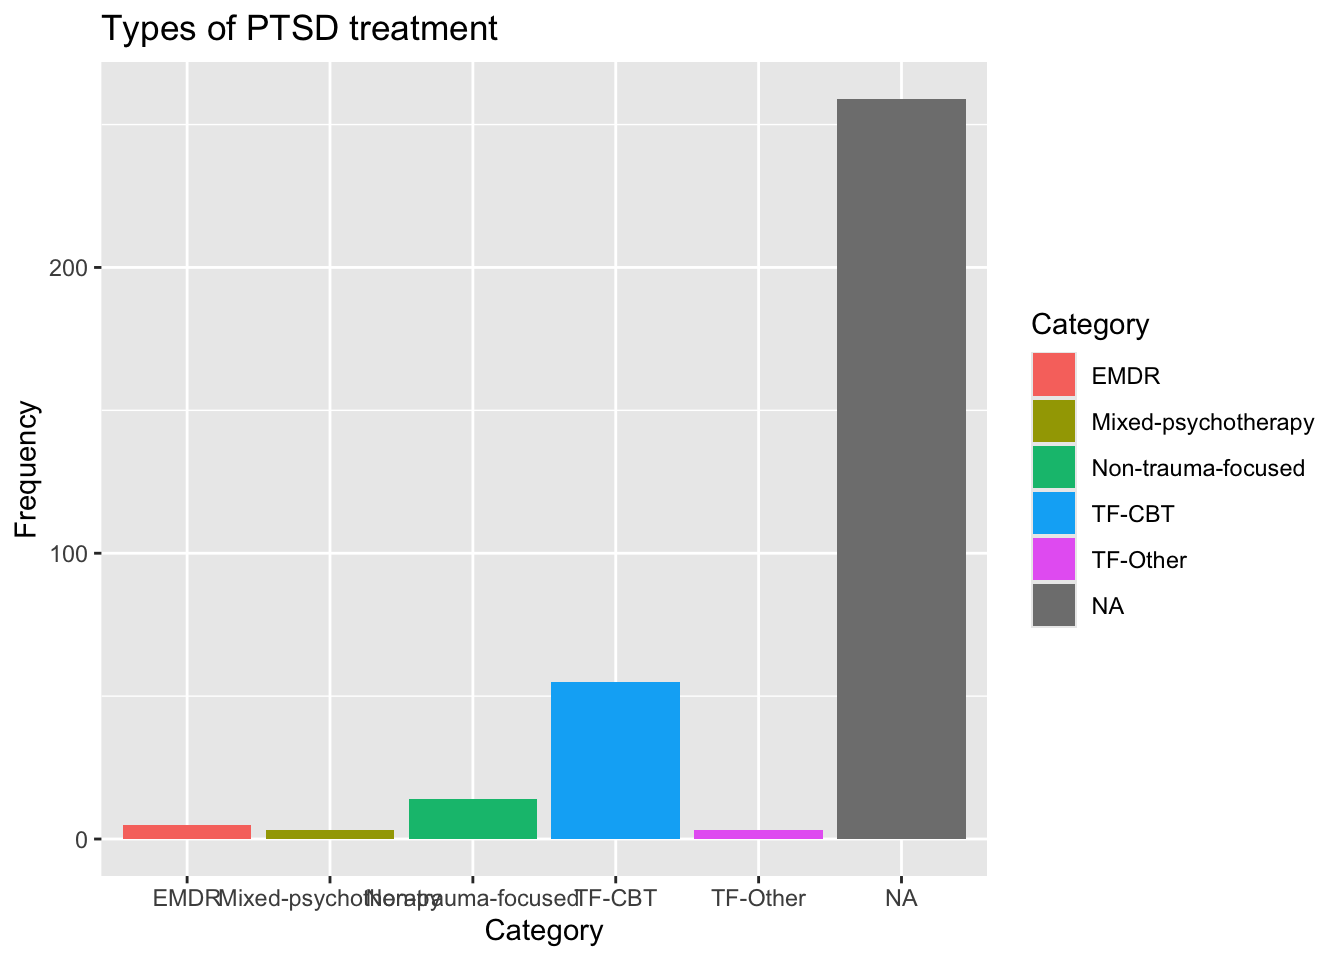
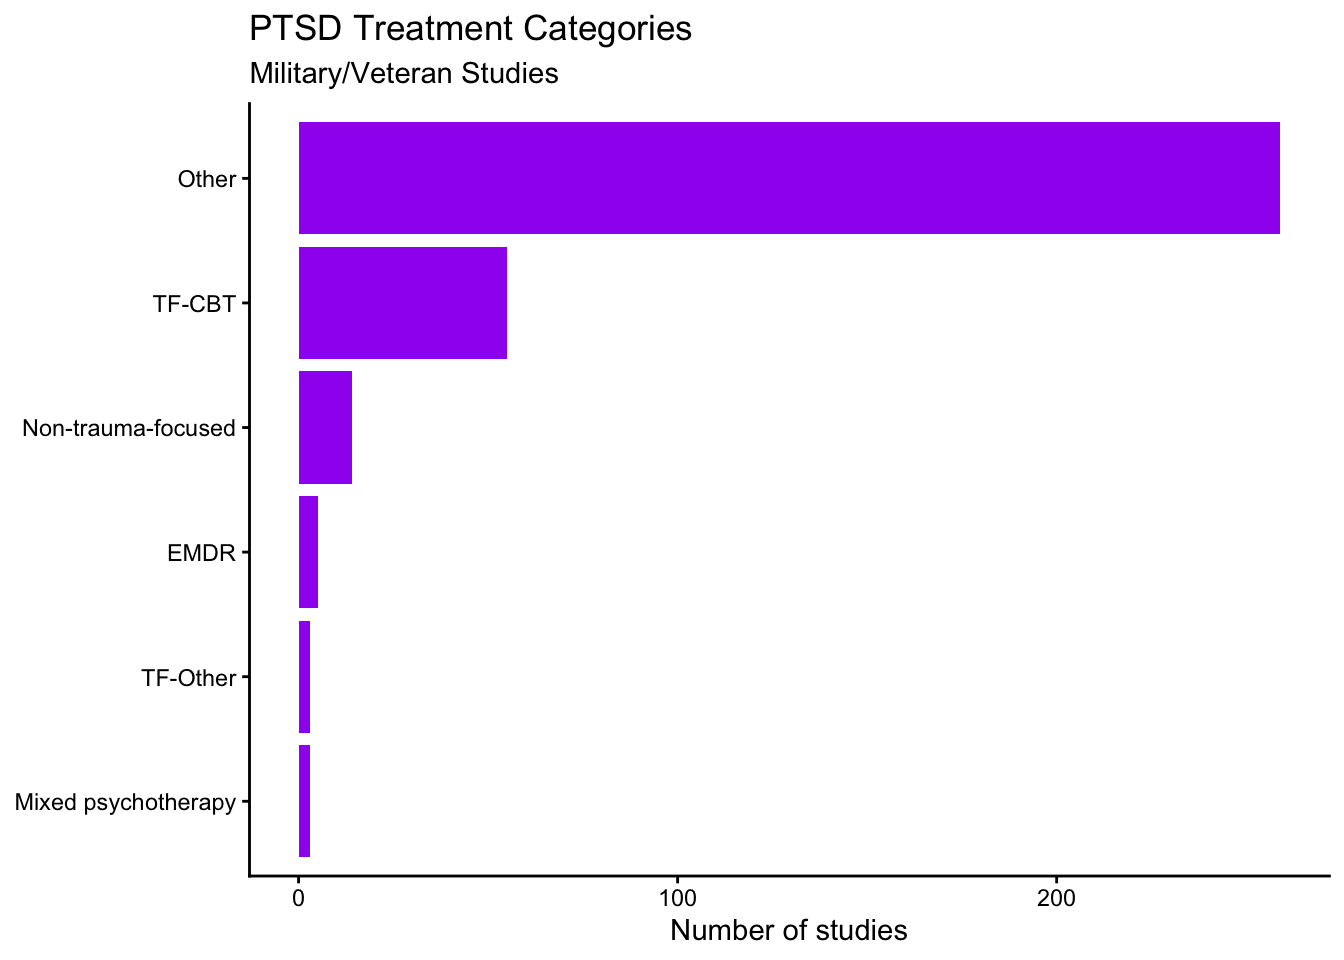
cleaned up

diff --git a/docs/p02.html b/docs/p02.html
@@ -13,7 +13,7 @@
 
 <title>Portfolio 2</title>
 
-<script src="site_libs/header-attrs-2.29/header-attrs.js"></script>
+<script src="site_libs/header-attrs-2.30/header-attrs.js"></script>
 <script src="site_libs/jquery-3.6.0/jquery-3.6.0.min.js"></script>
 <meta name="viewport" content="width=device-width, initial-scale=1" />
 <link href="site_libs/bootstrap-3.3.5/css/bootstrap.min.css" rel="stylesheet" />
@@ -295,86 +295,126 @@ $(document).ready(function () {
 </div>
 
 
-<pre class="r"><code>library(tidyverse)</code></pre>
-<pre><code>## ── Attaching core tidyverse packages ──────────────────────── tidyverse 2.0.0 ──
-## ✔ dplyr     1.1.4     ✔ readr     2.1.5
-## ✔ forcats   1.0.0     ✔ stringr   1.5.1
-## ✔ ggplot2   3.5.2     ✔ tibble    3.3.0
-## ✔ lubridate 1.9.4     ✔ tidyr     1.3.1
-## ✔ purrr     1.1.0     
-## ── Conflicts ────────────────────────────────────────── tidyverse_conflicts() ──
-## ✖ dplyr::filter() masks stats::filter()
-## ✖ dplyr::lag()    masks stats::lag()
-## ℹ Use the conflicted package (&lt;http://conflicted.r-lib.org/&gt;) to force all conflicts to become errors</code></pre>
-<p>I am reading in data from the <a
-href="https://ptsd-va.data.socrata.com/">PTSD Repository</a>, which was
-created by the National Center for PTSD to help people understand what
-is currently known about PTSD treatment. It includes 583 studies.</p>
-<pre class="r"><code>PTSD &lt;- read_csv(&quot;data/PTSD.csv&quot;)</code></pre>
-<pre><code>## Rows: 1282 Columns: 53
-## ── Column specification ────────────────────────────────────────────────────────
-## Delimiter: &quot;,&quot;
-## chr (47): Study ID, Author, Year (Study level), Study Class, Treatment Focus...
-## dbl  (5): Study Publication Year, Arm N Randomized, Psychotherapy Sessions C...
-## num  (1): Total N Randomized
-## 
-## ℹ Use `spec()` to retrieve the full column specification for this data.
-## ℹ Specify the column types or set `show_col_types = FALSE` to quiet this message.</code></pre>
-<p>I want to filter the dataset to only inciude participants who are
-active duty military or veterans. I also want the treatment focus at the
-study level to be on PTSD. Here I created a new dataframe with those
-filters.</p>
+<div id="goal" class="section level3">
+<h3>Goal</h3>
+<p>The goal of this portfolio piece is to pratice data cleaning,
+filtering, and visualization in R using a real-world clinical research
+dataset. I am using data from the <a
+href="https://ptsd-va.data.socrata.com/">PTSD Repository</a>, created by
+the National Center for PTSD to summarize what is currently known about
+PTSD treatment. The dataset includes 583 studies. For this project, I
+focus on studies involving active duty service members and veterans, and
+I explore how PTSD-focused psychotherapy treatments are distributed
+across broader treatment categories (e.g., TF-CBT, EMDR). This is a work
+in progress: I’m using it to iteratively improve my code, learn how to
+create clearer plots, and develop a repeatable workflow for categorizing
+messy treatment labels.</p>
+<p>First, I read in the dataset from the <a
+href="https://ptsd-va.data.socrata.com/">PTSD Repository</a>.</p>
+<pre class="r"><code>PTSD &lt;- read_csv(&quot;data/PTSD.csv&quot;, show_col_types = FALSE)</code></pre>
+<p>Next, I filter the dataset to include only studies where participants
+are active duty military or veterans, and where the treatment focus at
+the study level is PTSD. I store this filtered data in a new data
+frame.</p>
 <pre class="r"><code>PTSD_military &lt;- PTSD %&gt;% 
-  filter(`Military Status (Study level)` %in% c(&quot;Military&quot;, &quot;Veteran&quot;), `Treatment Focus (Study level)` == &quot;PTSD&quot;) #filter dataset for active duty military and veterans, as well as studys focusing only on PTSD</code></pre>
-<p>Now, I want to organize the types of psychotherapy into 5 groups so I
-can compare more easily. The 5 groups are: EMDR, TF-CBT, TF-Other,
-Non-trauma-focused, and Mixed psychotherapy. I took these groupings from
-a resource I found on the same site as the data. They give suggestions
-on how you might group together specific standardized treatments into
-larger categories. <a
-href="https://ptsd-va.data.socrata.com/Reference/Psychotherapy-Progressively-Specific-Grouping/5vmb-i9mg/about_data">Table</a>
-EMDR is Eye Movement Desensitization and Reprocessing. TF-CBT is
-trauma-focused cognitive behavioral therapy, which includes exposure
-therapy and cognitive therapy. TF-Other is tramua-focused, but not
-cognitive behavioral therapy: some examples include Reconsolidation of
-Traumatic Memories (RTM), and Trauma counseling. Non-trauma-focused
-includes CBT without trauma focus, and other non-trauma-focused
-treatments. Lastly, Mixed psychotherapy includes a combination of
-multiple treatments, for example CBT + EMDR. Not all of the standardized
-treatments are in the list i am pulling from, so I am going to name
-those as “other”. I mainly want to focus on comparing these 5 main
-groups.</p>
-<p>First, I will add a new variable, “category”. The levels will be the
-5 different groups plus other: EMDR, TF-CBT, TF-Other,
-Non-trauma-focused, Mixed psychotherapy, and other.</p>
+  filter(
+    `Military Status (Study level)` %in% c(&quot;Military&quot;, &quot;Veteran&quot;),
+    `Treatment Focus (Study level)` == &quot;PTSD&quot;
+  )</code></pre>
+<p>Now, I organize standardized psychotherapy treatments into five
+broader groups so that they are easier to compare. The five groups are
+EMDR, TF-CBT, TF-Other, Non-trauma-focused, and Mixed psychotherapy. I
+based these grouping on a resource provided on the same database as the
+dataset: <a
+href="https://ptsd-va.data.socrata.com/Reference/Psychotherapy-Progressively-Specific-Grouping/5vmb-i9mg/about_data">Psychotherapy
+Progressively Specific Grouping table</a>. - EMDR = Eye Movement
+Desensitization and Reprocessing - TF-CBT = trauma-focused cognitive
+behavioral therapy (including exposure and cognitive therapies) -
+TF-Other = trauma-focused therapies that are not TF-CBT (e.g., RTM,
+trauma counseling) - Non-trauma-focused = CBT without trauma focus and
+other non-trauma-focused approaches - Mixed psychotherapy = combinations
+of multiple psychotherapy approaches (e.g., CBT + EMDR)</p>
+<p>Not all standardized treatment names in the dataset appear in the
+grouping list I used. Any treatments that do not match one of the five
+groups are labeled as Other. To do this, I create a new variable called
+category with six levels: EMDR, TF-CBT, TF-Other, Non-trauma-focused,
+Mixed psychotherapy, and Other.</p>
 <pre class="r"><code>PTSD_military &lt;- PTSD_military %&gt;% 
   mutate(
     category = case_when(
       `Standardized Treatment Name` == &quot;Eye Movement Desensitization and Reprocessing (EMDR)&quot; ~ &quot;EMDR&quot;,
-      `Standardized Treatment Name` %in% c(&quot;Prolonged Exposure (PE)&quot;, &quot;Narrative Exposure Therapy (NET)&quot;, &quot;Exposure therapy&quot;, &quot;Imaginal exposure&quot;, &quot;Imaginal exposure (experimental paradigm) + placebo&quot;, &quot;Imaginal exposure + imagery rescripting&quot;, &quot;Implosive Therapy&quot;, &quot;Virtual reality exposure therapy (VRET)&quot;, &quot;Written Exposure Therapy (WET)&quot;, &quot;Written narrative exposure&quot;, &quot;Imagery Rehearsal Training (IRT)&quot;, &quot;Cognitive Behavioral Conjoint Therapy (CBCT)&quot;, &quot;Impact of Killing (IOK)&quot;, &quot;Trauma-focused cognitive behavioral therapy (TF-CBT)&quot;, &quot;Cognitive Processing Therapy (CPT)&quot;, &quot;Cognitive Therapy for PTSD (CT-PTSD)&quot;) ~ &quot;TF-CBT&quot;,
-      `Standardized Treatment Name` %in% c(&quot;Brief Eclectic Psychotherapy (BEP)&quot;, &quot;Modified Lifespan Integration&quot;, &quot;Multimodular motion-assisted memory desensitization and
-reconsolidation (3MDR)&quot;, &quot;Observed and Experiential Integration - Switching component&quot;, &quot;Reconsolidation of Traumatic Memories (RTM)&quot;, &quot;Trauma counseling&quot;, &quot;Accelerated Resolution Therapy (ART)&quot;) ~ &quot;TF-Other&quot;,
-      `Standardized Treatment Name` %in% c(&quot;Behavioral activation (BA)&quot;, &quot;Cognitive behavioral therapy (CBT) without a trauma focus&quot;, &quot;Cognitive Behavioral Therapy for Insomnia (CBT-I)&quot;, &quot;Cognitive restructuring and imagery modification&quot;, &quot;Metacognitive Therapy&quot;, &quot;Stress Inoculation Training (SIT)&quot;, &quot;Affect management therapy&quot;, &quot;Coping skills treatment&quot;, &quot;Interpersonal Psychotherapy (IPT)&quot;, &quot;Memory specificity training&quot;, &quot;Non-trauma-focused counseling&quot;, &quot;Present Centered Therapy (PCT)&quot;, &quot;Psychodynamic psychotherapy&quot;, &quot;PTSD psychotherapy&quot;, &quot;Resilience-oriented treatment&quot;, &quot;Skills Training in Affect and Interpersonal Regulation (STAIR)&quot;, &quot;Supportive counseling&quot;, &quot;Dialectical Behavior Therapy&quot;) ~ &quot;Non-trauma-focused&quot;, 
-      `Standardized Treatment Name` %in% c(&quot;Cognitive behavioral therapy (CBT) + Eye Desensitization and Reprocessing (EMDR)&quot;, &quot;Cognitive Behavioral Therapy for Insomnia (CBT-I) + Imagery Rehearsal Training (IRT)&quot;, &quot;Dialectical Behavior Therapy (DBT) + trauma-focused cognitive behavioral therapy (TF-CBT)&quot;, &quot;Eye Movement Desensitization and Reprocessing (EMDR) + cognitive behavioral therapy (CBT) without a trauma focus&quot;, &quot;Eye Movement Desensitization and Reprocessing (EMDR) + progressive muscle relaxation (PMR) + group psychoeducation&quot;, &quot;Narrative Exposure Therapy (NET) + Interpersonal Psychotherapy (IPT)&quot;, &quot;Prolonged Exposure (PE) + Stress Inoculation Training (SIT)&quot;, &quot;Skills Training in Affect and Interpersonal Regulation (STAIR) plus modified Prolonged Exposure (PE)&quot;) ~ &quot;Mixed-psychotherapy&quot;
-      )
-    )</code></pre>
+      
+      `Standardized Treatment Name` %in% c(
+        &quot;Prolonged Exposure (PE)&quot;, &quot;Narrative Exposure Therapy (NET)&quot;, &quot;Exposure therapy&quot;,
+        &quot;Imaginal exposure&quot;, &quot;Imaginal exposure (experimental paradigm) + placebo&quot;,
+        &quot;Imaginal exposure + imagery rescripting&quot;, &quot;Implosive Therapy&quot;,
+        &quot;Virtual reality exposure therapy (VRET)&quot;, &quot;Written Exposure Therapy (WET)&quot;,
+        &quot;Written narrative exposure&quot;, &quot;Imagery Rehearsal Training (IRT)&quot;,
+        &quot;Cognitive Behavioral Conjoint Therapy (CBCT)&quot;, &quot;Impact of Killing (IOK)&quot;,
+        &quot;Trauma-focused cognitive behavioral therapy (TF-CBT)&quot;,
+        &quot;Cognitive Processing Therapy (CPT)&quot;, &quot;Cognitive Therapy for PTSD (CT-PTSD)&quot;
+      ) ~ &quot;TF-CBT&quot;,
+      
+      `Standardized Treatment Name` %in% c(
+        &quot;Brief Eclectic Psychotherapy (BEP)&quot;, &quot;Modified Lifespan Integration&quot;,
+        &quot;Multimodular motion-assisted memory desensitization and reconsolidation (3MDR)&quot;,
+        &quot;Observed and Experiential Integration - Switching component&quot;,
+        &quot;Reconsolidation of Traumatic Memories (RTM)&quot;, &quot;Trauma counseling&quot;,
+        &quot;Accelerated Resolution Therapy (ART)&quot;
+      ) ~ &quot;TF-Other&quot;,
+      
+      `Standardized Treatment Name` %in% c(
+        &quot;Behavioral activation (BA)&quot;,
+        &quot;Cognitive behavioral therapy (CBT) without a trauma focus&quot;,
+        &quot;Cognitive Behavioral Therapy for Insomnia (CBT-I)&quot;,
+        &quot;Cognitive restructuring and imagery modification&quot;, &quot;Metacognitive Therapy&quot;,
+        &quot;Stress Inoculation Training (SIT)&quot;, &quot;Affect management therapy&quot;,
+        &quot;Coping skills treatment&quot;, &quot;Interpersonal Psychotherapy (IPT)&quot;,
+        &quot;Memory specificity training&quot;, &quot;Non-trauma-focused counseling&quot;,
+        &quot;Present Centered Therapy (PCT)&quot;, &quot;Psychodynamic psychotherapy&quot;,
+        &quot;PTSD psychotherapy&quot;, &quot;Resilience-oriented treatment&quot;,
+        &quot;Skills Training in Affect and Interpersonal Regulation (STAIR)&quot;,
+        &quot;Supportive counseling&quot;, &quot;Dialectical Behavior Therapy&quot;
+      ) ~ &quot;Non-trauma-focused&quot;,
+      
+      `Standardized Treatment Name` %in% c(
+        &quot;Cognitive behavioral therapy (CBT) + Eye Desensitization and Reprocessing (EMDR)&quot;,
+        &quot;Cognitive Behavioral Therapy for Insomnia (CBT-I) + Imagery Rehearsal Training (IRT)&quot;,
+        &quot;Dialectical Behavior Therapy (DBT) + trauma-focused cognitive behavioral therapy (TF-CBT)&quot;,
+        &quot;Eye Movement Desensitization and Reprocessing (EMDR) + cognitive behavioral therapy (CBT) without a trauma focus&quot;,
+        &quot;Eye Movement Desensitization and Reprocessing (EMDR) + progressive muscle relaxation (PMR) + group psychoeducation&quot;,
+        &quot;Narrative Exposure Therapy (NET) + Interpersonal Psychotherapy (IPT)&quot;,
+        &quot;Prolonged Exposure (PE) + Stress Inoculation Training (SIT)&quot;,
+        &quot;Skills Training in Affect and Interpersonal Regulation (STAIR) plus modified Prolonged Exposure (PE)&quot;
+      ) ~ &quot;Mixed psychotherapy&quot;,
+      
+      .default = &quot;Other&quot;
+    )
+  )</code></pre>
+<p>To visualize how frequently each category appears in the filtered
+dataset, I plot the number of studies per category.</p>
 <pre class="r"><code>PTSD_military %&gt;% 
-  ggplot(aes(x = category, fill = category)) +
-  geom_bar() +
-  labs(x = &quot;Category&quot;, 
-       y = &quot;Frequency&quot;,
-       title = &quot;Types of PTSD treatment&quot;,
-       fill = &quot;Category&quot;)</code></pre>
-<p><img src="p02_files/figure-html/plot-1.png" width="672" /></p>
-<p>So, after seeing this plot, it appears that most of the treatments in
-this dataset don’t match the groupings in the chart.</p>
-<p>I am going to try and organize the leftover NA’s into the categories
-(as much as I can). I;m going to try and see if there are multiples of a
-particular treatment name that aren’t already in a category.</p>
+  count(category) %&gt;% 
+  ggplot(aes(x = reorder(category, n), y = n)) +
+  geom_col(fill = &quot;purple&quot;) +
+  coord_flip() +
+  labs(
+    x = NULL,
+    y = &quot;Number of studies&quot;,
+    title = &quot;PTSD Treatment Categories&quot;,
+    subtitle = &quot;Military/Veteran Studies&quot;
+  ) +
+  theme_classic()</code></pre>
+<p><img src="p02_files/figure-html/plot-1.png" alt="" width="672" /></p>
+<p>After viewing the plot, a large portion of treatments fall into
+Other, which suggests that many treatment labels in this dataset do not
+match my initial grouping list. As a next step, I inspect which
+treatment names appear most often in the Other category and decide
+whether they should be reclassified into one of the five main
+psychotherapy categories.</p>
 <pre class="r"><code>PTSD_military %&gt;% 
-  filter(is.na(category)) %&gt;% 
-  count(`Treatment Name`) %&gt;% 
-  arrange(desc(n))</code></pre>
+  filter(category == &quot;Other&quot;) %&gt;% 
+  count(`Treatment Name`, sort = TRUE)</code></pre>
 <pre><code>## # A tibble: 168 × 2
 ##    `Treatment Name`         n
 ##    &lt;chr&gt;                &lt;int&gt;
@@ -389,13 +429,19 @@ particular treatment name that aren’t already in a category.</p>
 ##  9 Prazosin                 3
 ## 10 Sertraline               3
 ## # ℹ 158 more rows</code></pre>
-<p>Ok, so this is telling me that Placebo, Waitlist, TAU, PCT, Placebo
-augmentation, Group PCT, MBSR, Control, Prazosin, Sertraline, Usual
-care, Angling, Attention Bias Modification, Attention Control Training,
-Divalproex, Emotional Freedom Technique, Guanfacine, Hydrocortisone +
-PE, Mifepristone, Mirtazapine, PE + placebo, Psychoeducation, Sham rTMS,
-Standard of care, TAU waitlist, Transcendental meditation, and Trauma
-Center Trauma-Sensitive Yoga all have more than 1 appearance.</p>
+<p>Given this output, several “Other” treatment names appear multiple
+times (e.g., placebo, waitlist, TAU, PCT, and several medication or
+control conditions). I will have to do futher research to find out where
+these treatments belong.</p>
+</div>
+<div id="next-steps-work-in-progress" class="section level3">
+<h3>Next steps (work in progress)</h3>
+<p>Next, I plan to recode common “Other” treatments into the existing
+categories when appropriate, separate psychotherapy vs
+medication/control conditions, and explore whether category frequencies
+differ by study characteristics (e.g., population type, setting, or
+study design).</p>
+</div>
 
 
 
